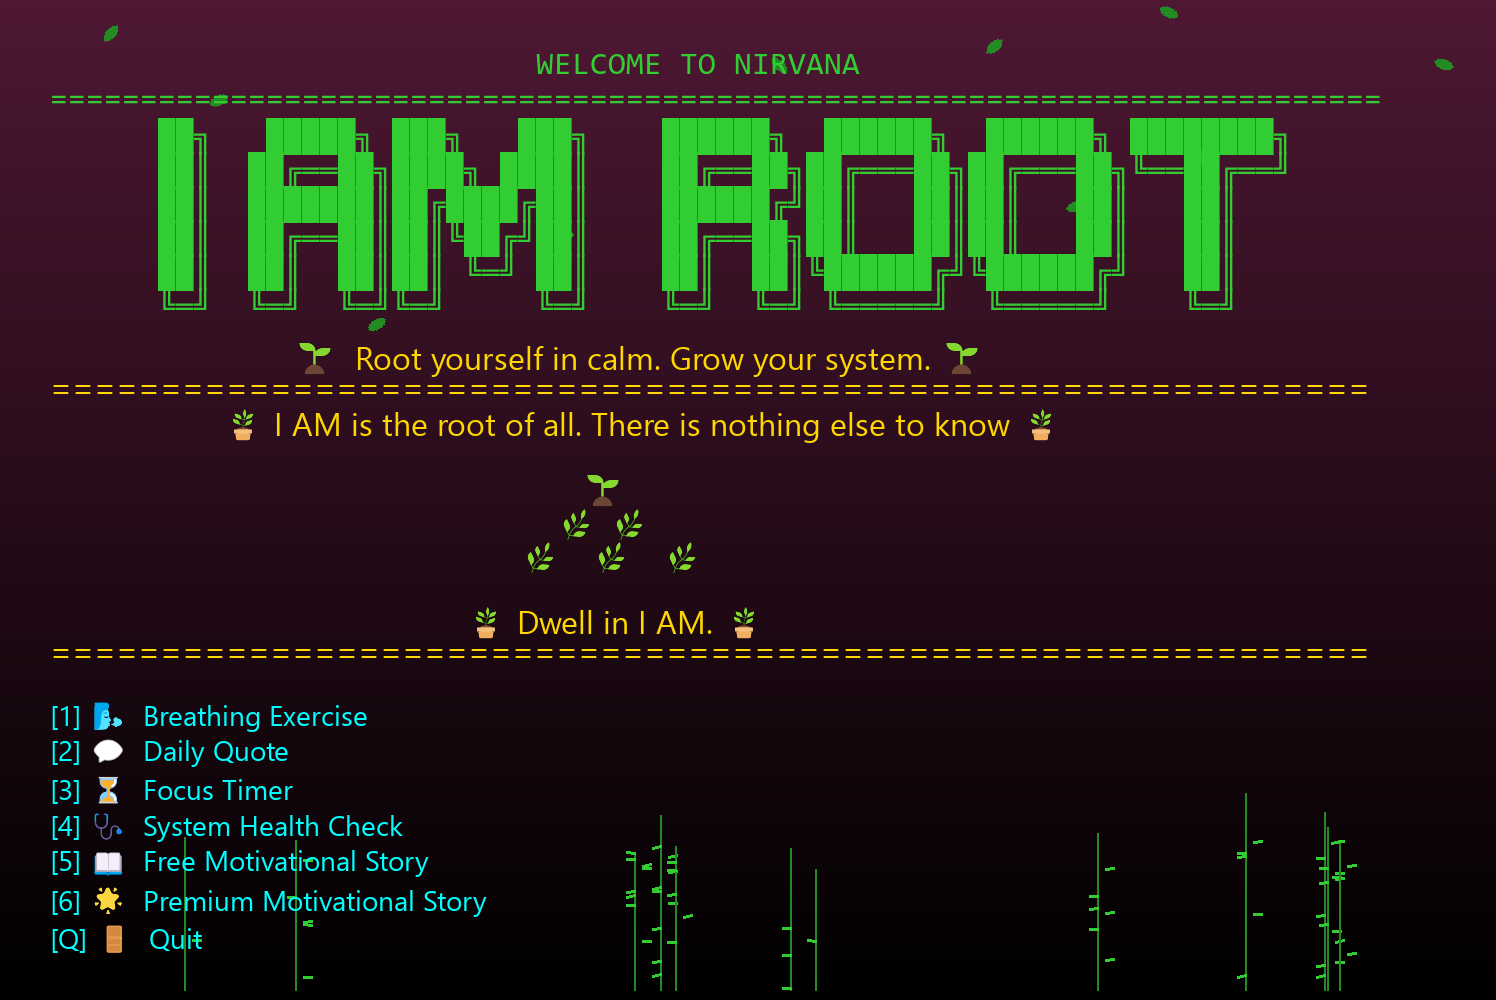
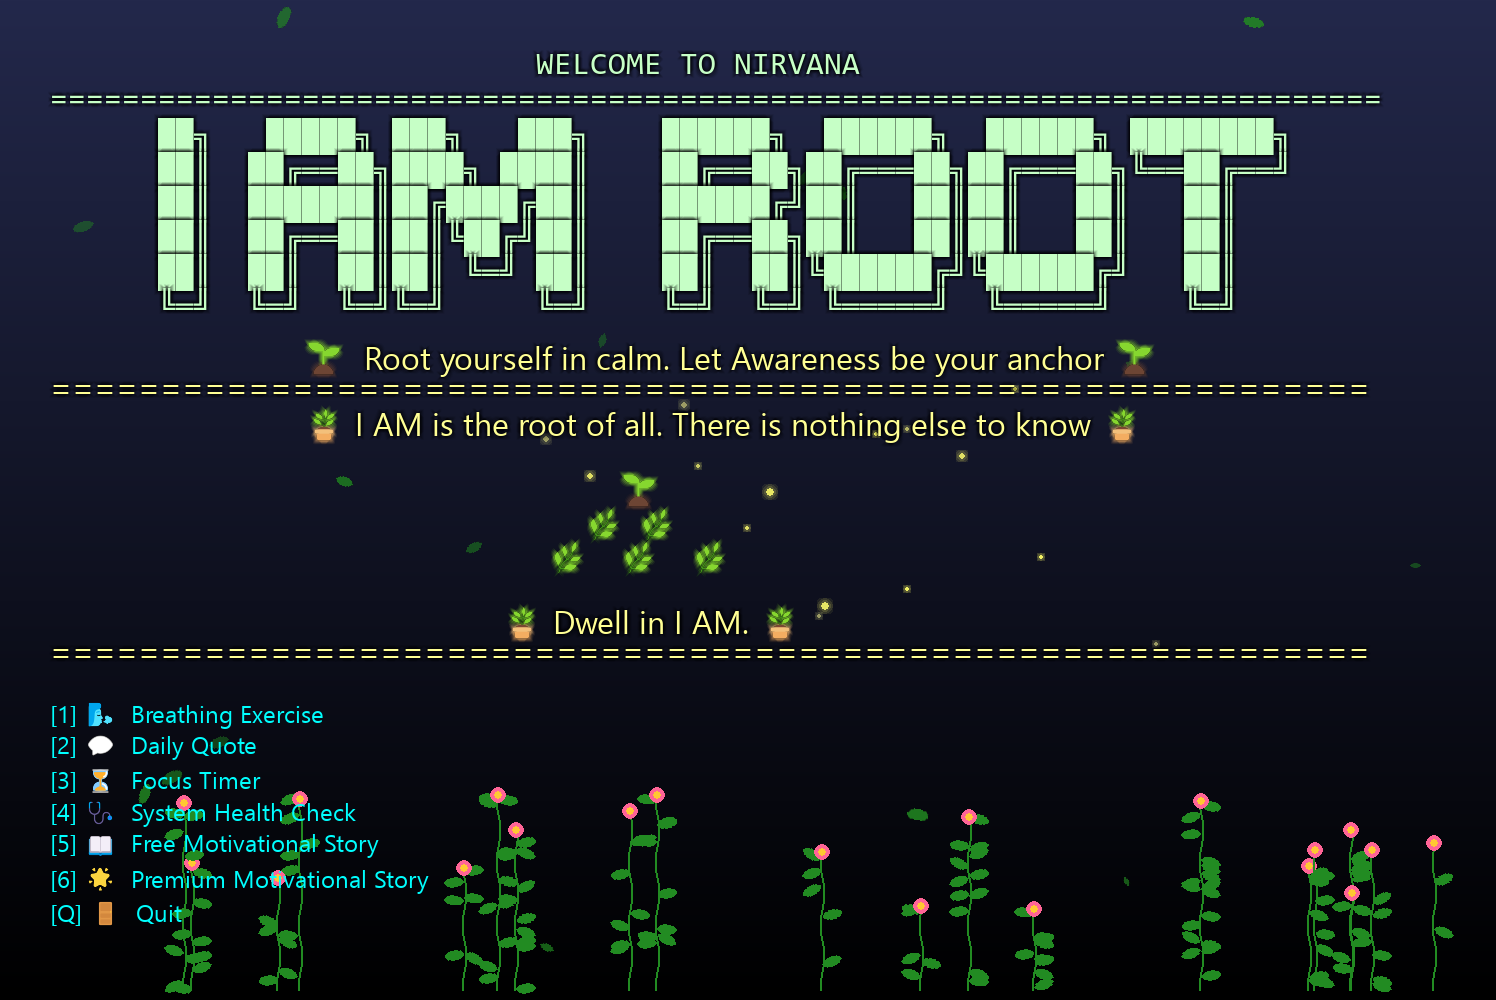
Shoots with flowers and other animations

diff --git a/src/main.py b/src/main.py
@@ -9,9 +9,14 @@ from breathing_visual_audio import breathing_session
 from stories import show_free_story, show_premium_story
 from quotes import show_quote  # assuming you have quotes.py
 
+# --- Flower image ---
+flower_img = pygame.Surface((16, 16), pygame.SRCALPHA)
+pygame.draw.circle(flower_img, (255, 100, 150), (8, 8), 8)  # flower outer
+pygame.draw.circle(flower_img, (255, 200, 50), (8, 8), 4)   # flower center
+
 class Leaf:
     def __init__(self, img, screen_w, screen_h):
-        self.img = img
+        self.base_img = img
         self.screen_w = screen_w
         self.screen_h = screen_h
         self.reset()
@@ -20,14 +25,25 @@ class Leaf:
         self.x = random.randint(0, self.screen_w)
         self.y = random.randint(-self.screen_h, 0)
         self.speed_y = random.uniform(1, 3)
-        self.speed_x = random.uniform(-0.5, 0.5)
         self.angle = random.uniform(0, 360)
         self.rotation_speed = random.uniform(-1, 1)
+        self.size_factor = random.uniform(0.5, 1.2)
+        self.alpha = random.randint(100, 255)
+        self.wind_offset = random.uniform(0, 1000)
 
-    def update(self):
-        self.x += self.speed_x
+        # Resize image based on size_factor
+        w, h = self.base_img.get_size()
+        self.img = pygame.transform.smoothscale(self.base_img, (int(w * self.size_factor), int(h * self.size_factor)))
+        self.img.set_alpha(self.alpha)
+
+    def update(self, frame):
+        # vertical fall
         self.y += self.speed_y
+        # horizontal wind sway
+        self.x += math.sin((self.y + self.wind_offset) / 30) * 0.5
+        # rotation
         self.angle += self.rotation_speed
+
         if self.y > self.screen_h:
             self.reset()
 
@@ -36,42 +52,72 @@ class Leaf:
         rect = rotated.get_rect(center=(self.x, self.y))
         surface.blit(rotated, rect.topleft)
 
+
 class Shoot:
-    def __init__(self, x, max_height):
+    def __init__(self, x, max_height, leaf_img=None, flower_img=None):
         self.x = x
         self.max_height = max_height
         self.height = 0
-        self.growth_speed = random.uniform(1, 3)
-        self.color = (34, 139, 34)
+        self.growth_speed = random.uniform(1, 2.5)
+        self.color = (34, 139, 34)  # stem color
         self.leaves = []
+        self.leaf_img = leaf_img
+        self.flower_img = flower_img
+        self.flower_added = False
 
     def update(self):
+        # Grow stem
         if self.height < self.max_height:
             self.height += self.growth_speed
-            # Check if we should add a leaf at this height
-            if random.random() < 0.05:  # 5% chance per frame
-                leaf_x_offset = random.choice([-8, 8])  # Left or right
+            # Chance to add a leaf
+            if random.random() < 0.08:
+                leaf_x_offset = random.choice([-10, 10])
+                leaf_size = random.uniform(8, 15)
                 self.leaves.append({
                     "y": self.height,
                     "x_offset": leaf_x_offset,
-                    "angle": random.uniform(-15, 15)  # Slight rotation
+                    "angle": random.uniform(-25, 25),
+                    "size": leaf_size
                 })
 
-    def draw(self, screen, ground_y, frame):
-        # Draw the stem
-        pygame.draw.line(screen, self.color, (self.x, ground_y),
-                         (self.x, ground_y - int(self.height)), 2)
+        # Add flower at the top when fully grown
+        if self.height >= self.max_height and not self.flower_added:
+            self.flower_added = True
 
-        # Draw the leaves
+    def draw(self, screen, ground_y, frame):
+        # --- Draw stem ---
+        points = []
+        for h in range(int(self.height)):
+            sway = math.sin((h / 10) + (frame / 20)) * 2
+            points.append((self.x + sway, ground_y - h))
+        if len(points) > 1:
+            pygame.draw.lines(screen, self.color, False, points, 2)
+
+        # --- Draw leaves ---
         for leaf in self.leaves:
-            leaf_y = ground_y - int(leaf["y"])
-            leaf_angle = leaf["angle"] + math.sin(frame / 10) * 5  # gentle sway
-            leaf_points = [
-                (self.x + leaf["x_offset"], leaf_y),
-                (self.x + leaf["x_offset"] + math.cos(math.radians(leaf_angle)) * 10,
-                 leaf_y + math.sin(math.radians(leaf_angle)) * 5)
-            ]
-            pygame.draw.line(screen, (50, 205, 50), leaf_points[0], leaf_points[1], 3)
+            leaf_y = ground_y - leaf["y"]
+            sway_angle = leaf["angle"] + math.sin(frame / 15 + leaf["y"] / 15) * 5
+            if self.leaf_img:
+                rotated = pygame.transform.rotate(self.leaf_img, sway_angle)
+                rect = rotated.get_rect(center=(self.x + leaf["x_offset"], leaf_y))
+                screen.blit(rotated, rect.topleft)
+            else:
+                end_x = self.x + leaf["x_offset"] + math.cos(math.radians(sway_angle)) * leaf["size"]
+                end_y = leaf_y + math.sin(math.radians(sway_angle)) * leaf["size"] / 2
+                pygame.draw.line(screen, (50, 205, 50),
+                                 (self.x + leaf["x_offset"], leaf_y),
+                                 (end_x, end_y), 3)
+
+        # --- Draw flower ---
+        if self.flower_added:
+            flower_y = ground_y - self.height
+            if self.flower_img:
+                rect = self.flower_img.get_rect(center=(self.x, flower_y))
+                screen.blit(self.flower_img, rect.topleft)
+            else:
+                # simple circular flower
+                pygame.draw.circle(screen, (255, 100, 150), (int(self.x), int(flower_y)), 8)
+
 
 def draw_gradient_background(surface, time_elapsed):
     w, h = surface.get_size()
@@ -85,6 +131,82 @@ def draw_gradient_background(surface, time_elapsed):
         g = color1[1] + (color2[1] - color1[1]) * y // h
         b = color1[2] + (color2[2] - color1[2]) * y // h
         pygame.draw.line(surface, (r, g, b), (0, y), (w, y))
+
+class Firefly:
+    def __init__(self, screen_w, screen_h):
+        self.x = random.uniform(0, screen_w)
+        self.y = random.uniform(0, screen_h)
+        self.prev_positions = [(self.x, self.y)]  # store trail positions
+        self.angle = random.uniform(0, math.pi * 2)
+        self.speed = random.uniform(0.2, 0.5)
+        self.phase = random.uniform(0, math.pi * 2)
+        self.size = random.randint(2, 4)
+        self.screen_w = screen_w
+        self.screen_h = screen_h
+
+    def update(self, frame, mouse_pos=None):
+        # Slight wandering
+        self.angle += random.uniform(-0.02, 0.02)
+        self.x += math.cos(self.angle) * self.speed
+        self.y += math.sin(self.angle) * self.speed
+
+        # Attracted to mouse if provided
+        if mouse_pos:
+            dx = mouse_pos[0] - self.x
+            dy = mouse_pos[1] - self.y
+            self.x += dx * 0.002  # attraction strength
+            self.y += dy * 0.002
+
+        # Keep within screen
+        self.x %= self.screen_w
+        self.y %= self.screen_h
+
+        # Update trail
+        self.prev_positions.append((self.x, self.y))
+        if len(self.prev_positions) > 10:  # limit trail length
+            self.prev_positions.pop(0)
+
+    def draw(self, surface, frame):
+        flicker = (math.sin(frame / 10 + self.phase) + 1) / 2
+        brightness = int(150 + 105 * flicker)
+        color = (brightness, brightness, 100)
+        
+        # Draw normally
+        pygame.draw.circle(surface, color, (int(self.x), int(self.y)), self.size)
+        
+        # Optional: soft glow
+        for i in range(1, 4):
+            alpha = max(10, 50 - i*10)
+            glow_surf = pygame.Surface((self.size*4, self.size*4), pygame.SRCALPHA)
+            glow_color = (*color, alpha)  # RGBA
+            pygame.draw.circle(glow_surf, glow_color, (self.size*2, self.size*2), self.size + i*2)
+            surface.blit(glow_surf, (int(self.x)-self.size*2, int(self.y)-self.size*2))
+
+
+
+def draw_text_with_shadow_glow(surface, font, text, base_color, pos, frame):
+    x, y = pos
+
+    # --- PULSING COLOR ---
+    pulse = (math.sin(frame / 15) + 1) / 2  # 0 → 1
+    r = min(255, int(base_color[0] + 150 * pulse))
+    g = min(255, int(base_color[1] + 150 * pulse))
+    b = min(255, int(base_color[2] + 150 * pulse))
+    color = (r, g, b)
+
+    # --- MULTI-LAYER GLOW ---
+    for i in range(1, 5):
+        alpha = max(10, 80 - i * 15)
+        glow_surf = font.render(text, True, (0,0,0))
+        glow_surf.set_alpha(alpha)
+        surface.blit(glow_surf, (x + i, y + i))
+        surface.blit(glow_surf, (x - i, y + i))
+        surface.blit(glow_surf, (x + i, y - i))
+        surface.blit(glow_surf, (x - i, y - i))
+
+    # --- MAIN TEXT ---
+    text_surf = font.render(text, True, color)
+    surface.blit(text_surf, (x, y))
 
 # ---------------- Colors ---------------- #
 BLACK = (0, 0, 0)
@@ -111,15 +233,15 @@ logo_lines = [
 ]
 
 motivational_lines = [
-    "                           🌱  Root yourself in calm. Grow your system. 🌱",
+    "                            🌱  Root yourself in calm. Let Awareness be your anchor 🌱",
     "============================================================",
-    "                   🪴 I AM is the root of all. There is nothing else to know 🪴",
+    "                            🪴 I AM is the root of all. There is nothing else to know 🪴",
     "                                                                             ",
-    "                                                           🌱",
-    "                                                        🌿 🌿",
-    "                                                    🌿   🌿   🌿",
+    "                                                               🌱",
+    "                                                           🌿 🌿",
+    "                                                       🌿   🌿   🌿",
     "                                                                               ",
-    "                                              🪴 Dwell in I AM. 🪴",
+    "                                                  🪴 Dwell in I AM. 🪴",
     "============================================================"
 ]
 
@@ -153,15 +275,17 @@ def main():
 
     logo_font = pygame.font.Font(LOGO_FONT_PATH, 32)
     emoji_font = pygame.font.Font(EMOJI_FONT_PATH, 32)
-    menu_font = pygame.font.Font(EMOJI_FONT_PATH, 28)
+    menu_font = pygame.font.Font(EMOJI_FONT_PATH, 24)
 
     # Load leaf image (or placeholder)
     leaf_img = pygame.Surface((20, 10), pygame.SRCALPHA)
     pygame.draw.ellipse(leaf_img, (34, 139, 34), [0, 0, 20, 10])
 
     leaves = [Leaf(leaf_img, info.current_w, info.current_h) for _ in range(20)]
-    shoots = [Shoot(random.randint(50, info.current_w - 50), random.randint(80, 200))
-          for _ in range(12)]
+    shoots = [Shoot(random.randint(50, info.current_w - 50), random.randint(80, 200),
+              leaf_img=leaf_img, flower_img=flower_img)
+              for _ in range(20)]  # more shoots
+    fireflies = [Firefly(info.current_w, info.current_h) for _ in range(15)]
 
     if os.path.exists(CALM_MUSIC):
         pygame.mixer.init()
@@ -194,24 +318,27 @@ def main():
 
         # --- ANIMATIONS ---
         for leaf in leaves:
-            leaf.update()
+            leaf.update(frame)
             leaf.draw(screen)
 
         for shoot in shoots:
             shoot.update()
             shoot.draw(screen, info.current_h - 10, frame)
 
+        mouse_pos = pygame.mouse.get_pos()
+        for firefly in fireflies:
+            firefly.update(frame, mouse_pos)
+            firefly.draw(screen, frame)
+
         # --- TEXT LAYER ---
         y_offset = 50
         for line in logo_lines:
-            text_surf = logo_font.render(line, True, GREEN)
-            screen.blit(text_surf, (50, y_offset))
+            draw_text_with_shadow_glow(screen, logo_font, line, GREEN, (50, y_offset), frame)
             y_offset += logo_font.get_height() + 2
 
         y_offset += 20
         for line in motivational_lines:
-            text_surf = emoji_font.render(line, True, YELLOW)
-            screen.blit(text_surf, (50, y_offset))
+            draw_text_with_shadow_glow(screen, emoji_font, line, YELLOW, (50, y_offset), frame)
             y_offset += emoji_font.get_height() + 2
 
         y_offset += 30
